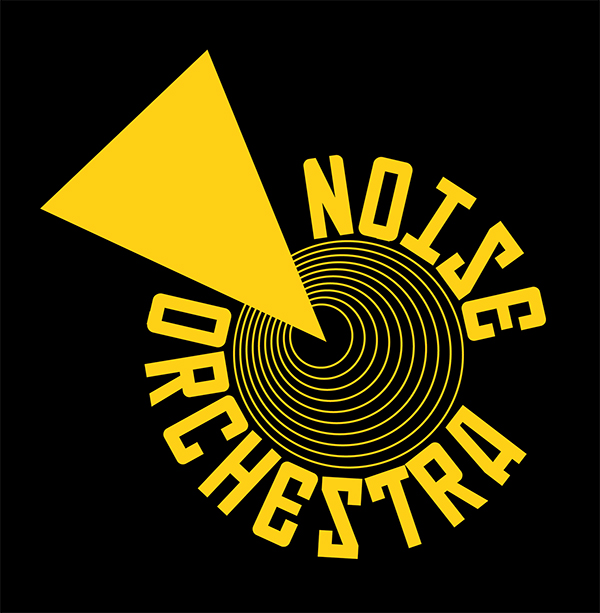
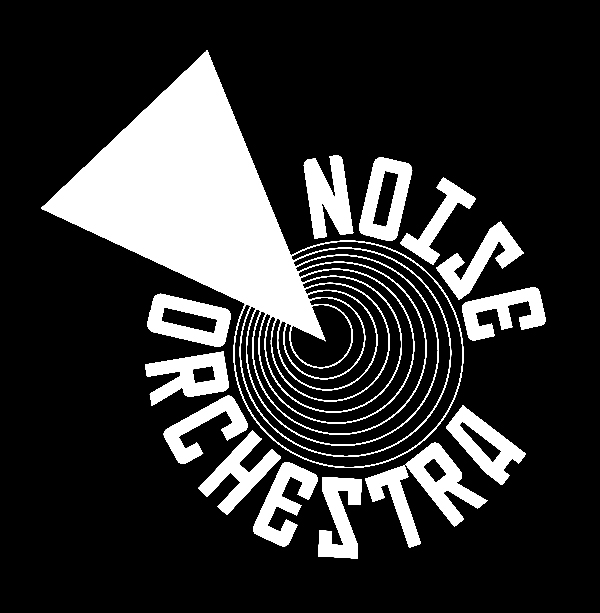
Fixes in resizing image

Changed region(s): [[0.06, 0.062, 0.93, 0.9299]]

diff --git a/noisebox_oled_helpers/oled.py b/noisebox_oled_helpers/oled.py
@@ -116,13 +116,15 @@ class OLED:
         img_path = os.path.abspath(os.path.join(os.path.dirname(__file__),
             'images', 'noiseorchestra.jpg'))
         logo = Image.open(img_path).convert("RGBA")
-        fff = Image.new(logo.mode, (self.device.height, self.device.height), (255,) * 4)
-        background = Image.new("RGBA", self.device.size, "white")
-        posn = ((self.device.width - logo.width) // 2, 0)
+        logo_resized = logo.resize((self.device.height, self.device.height))
+        fff = Image.new(logo_resized.mode, logo_resized.size, (255,) * 4)
+
+        background = Image.new("RGBA", self.device.size, "black")
+        posn = ((self.device.width - logo_resized.width) // 2, 0)
 
         while self._show_images_running is True:
             for angle in range(0, 360, 2):
-                rot = logo.rotate(angle, resample=Image.BILINEAR)
+                rot = logo_resized.rotate(angle, resample=Image.BILINEAR)
                 img = Image.composite(rot, fff, rot)
                 background.paste(img, posn)
                 self.device.display(background.convert(self.device.mode))
